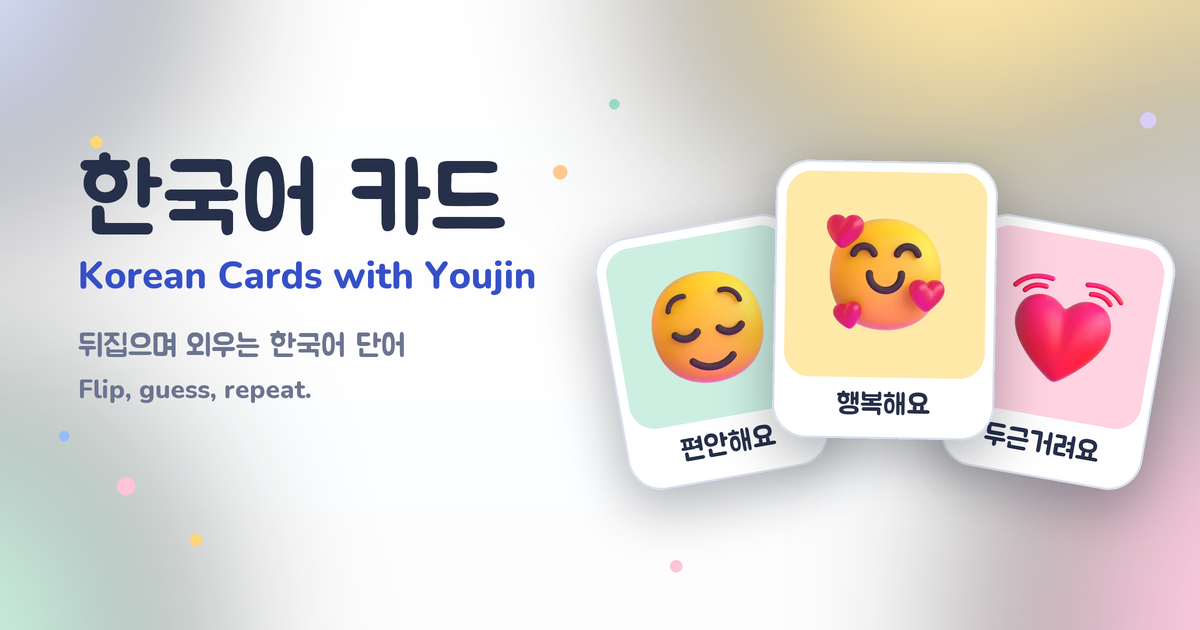
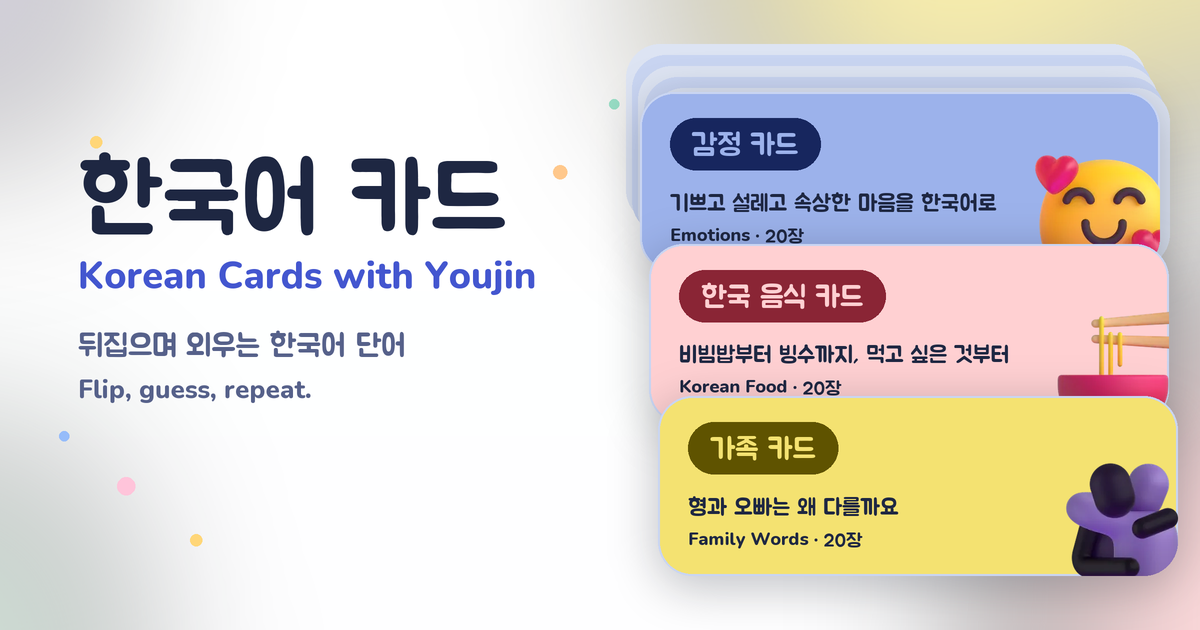
OG 이미지를 새 팔레트와 카드 더미로 다시 생성
세 장을 부채꼴로 펼치던 그림을 홈 화면과 같은 카드 더미로 바꿨다.
공유 카드에서 본 그림이 앱을 열었을 때 그대로 나오는 편이 낫다.

- 색은 전부 v2 토큰. 글로우도 악센트 8쌍에서 가져왔고, 왼쪽 두 개는
  겹치면서 회색으로 뜨길래 바깥으로 더 밀고 알파를 낮췄다.
- 덱의 라벨·한 줄 소개·색을 DECKS 상수에 적어 두었다. decks/*.js 와
  같은 내용이니 덱을 고치면 여기도 같이 고친다.
- Nunito 에는 한글 글자가 없어서 "20장" 이 두부로 찍혔다. 영문과
  한글을 글꼴을 바꿔 가며 이어 그리는 runs() 를 뒀다. 앱에서는
  --font-app 이 글자별로 알아서 분기하는데 Pillow 는 안 해 준다.

diff --git a/index.html b/index.html
@@ -22,7 +22,7 @@
 <meta property="og:image:type" content="image/png">
 <meta property="og:image:width" content="1200">
 <meta property="og:image:height" content="630">
-<meta property="og:image:alt" content="한국어 감정 카드 세 장 — 편안해요, 행복해요, 두근거려요">
+<meta property="og:image:alt" content="포개어 쌓은 덱 카드 세 장 — 감정 카드, 한국 음식 카드, 가족 카드">
 <meta name="twitter:card" content="summary_large_image">
 <link rel="stylesheet" href="https://cdn.jsdelivr.net/gh/orioncactus/pretendard@v1.3.9/dist/web/variable/pretendardvariable-dynamic-subset.min.css">
 <link rel="preconnect" href="https://fonts.googleapis.com">

diff --git a/tools/build_og.py b/tools/build_og.py
@@ -4,9 +4,10 @@ Usage:
     python3 -m venv .venv && .venv/bin/pip install Pillow
     .venv/bin/python tools/build_og.py
 
-A fanned deck of three mini flip-cards (real card art from img/emotions/)
-on the site palette, next to the title. Fonts (Jua, Nunito) are downloaded
-once into tools/.fontcache/ — that folder is gitignored, the PNG is committed.
+A stack of labelled deck cards — the same thing the home screen shows —
+next to the title. Deck colours, blurbs and art come from decks/*.js, so
+this file and the app stay in step. Fonts (Jua, Nunito) are downloaded once
+into tools/.fontcache/ — that folder is gitignored, the PNG is committed.
 """
 import os, urllib.request
 from PIL import Image, ImageDraw, ImageFilter, ImageFont, ImageOps
@@ -23,26 +24,31 @@ FONTS = {
     "Nunito.ttf": "https://github.com/google/fonts/raw/main/ofl/nunito/Nunito%5Bwght%5D.ttf",
 }
 
-# css/app.css tokens (light theme)
-BG = (238, 241, 248)
-INK = (38, 48, 74)
-MUTED = (107, 117, 144)
-PRIMARY = (53, 80, 200)
-SURFACE = (255, 255, 255)
-LINE = (216, 222, 235)
-GROUP = {
-    "yellow": (255, 233, 168),
-    "pink": (255, 211, 226),
-    "mint": (205, 239, 226),
-    "lavender": (226, 218, 250),
+# css/app.css tokens (light theme) — 디자인 시스템 v2
+BG = (245, 248, 255)
+INK = (30, 39, 66)
+MUTED = (86, 97, 138)
+PRIMARY = (67, 86, 207)
+LINE = (201, 213, 242)
+GRAY_BG = (221, 228, 243)
+ACCENT = {                       # -bg, -ink
+    "blue": ((156, 178, 235), (23, 38, 94)),
+    "pink": ((255, 208, 210), (138, 37, 53)),
+    "yellow": ((244, 226, 113), (95, 83, 0)),
+    "mint": ((189, 234, 206), (20, 84, 58)),
+    "lavender": ((221, 212, 251), (65, 43, 140)),
 }
 
-# fanned deck: (card art, label, group color, center x, center y, rotation)
-CARDS = [
-    ("emotions/pyeonanhaeyo", "편안해요", "mint", 712, 352, 10, 0.92),
-    ("emotions/dugeungeoryeoyo", "두근거려요", "pink", 1058, 352, -10, 0.92),
-    ("emotions/haengbokhaeyo", "행복해요", "yellow", 885, 300, -1, 1.0),
+# 홈 더미와 같은 순서·같은 내용. (덱 폴더, 겉면 그림, 라벨, 한 줄 소개, 색)
+DECKS = [
+    ("emotions", "haengbokhaeyo", "감정 카드", "Emotions", "기쁘고 설레고 속상한 마음을 한국어로", "blue"),
+    ("food", "bowl", "한국 음식 카드", "Korean Food", "비빔밥부터 빙수까지, 먹고 싶은 것부터", "pink"),
+    ("family", "gajok", "가족 카드", "Family Words", "형과 오빠는 왜 다를까요", "yellow"),
 ]
+
+CARD_W, CARD_H, RADIUS = 520, 180, 34
+STACK_X, STACK_Y, STEP, SKEW = 640, 92, 152, 9   # 겹침 = CARD_H - STEP = 28
+PAD, ART = 30, 148
 
 
 def font(name, size):
@@ -68,16 +74,15 @@ def backdrop(size):
     grad = Image.new("L", (1, h))
     for y in range(h):
         grad.putpixel((0, y), int(255 - 26 * (y / h)))  # subtle top->bottom cool-down
-    img.paste(Image.new("RGBA", size, (232, 237, 249, 255)),
-              (0, 0), ImageOps.invert(grad.resize(size)))
+    img.paste(Image.new("RGBA", size, BG + (255,)), (0, 0), ImageOps.invert(grad.resize(size)))
 
     # anchored just outside the corners, so only the edges tint and the
     # middle stays near-white (overlapping pastels turn gray fast)
     glows = [  # (cx%, cy%, r, rgb, alpha)
-        (.80, -.16, 300, (255, 226, 146), 210),
-        (1.10, .92, 300, (255, 192, 216), 210),
-        (-.10, 1.02, 290, (182, 236, 214), 185),
-        (-.09, -.10, 280, (203, 216, 255), 195),
+        (.80, -.16, 300, ACCENT["yellow"][0], 150),
+        (1.10, .92, 300, ACCENT["pink"][0], 200),
+        (-.16, 1.06, 290, ACCENT["mint"][0], 150),
+        (-.15, -.14, 280, ACCENT["lavender"][0], 160),
     ]
     for fx, fy, r, rgb, a in glows:
         r *= S
@@ -93,38 +98,76 @@ def sparkles(img):
     d = ImageDraw.Draw(img, "RGBA")
     dots = [(126, 486, 9, (255, 196, 218)), (196, 540, 6, (255, 214, 120)),
             (64, 436, 5, (150, 188, 250)), (560, 172, 7, (255, 200, 140)),
-            (614, 104, 5, (150, 220, 196)), (1148, 120, 8, (216, 206, 250)),
-            (676, 566, 6, (255, 196, 218)), (96, 142, 6, (255, 214, 120))]
+            (614, 104, 5, (150, 220, 196)), (96, 142, 6, (255, 214, 120))]
     for x, y, r, rgb in dots:
         x, y, r = x * S, y * S, r * S
         d.ellipse((x - r, y - r, x + r, y + r), fill=rgb + (205,))
 
 
-def mini_card(art, label, color, w, h):
-    """One flip-card: white surface, pastel art panel, Korean label."""
-    card = Image.new("RGBA", (w, h), (0, 0, 0, 0))
+def rounded(size, radius, fill, outline=None, width=0):
+    im = Image.new("RGBA", size, (0, 0, 0, 0))
+    ImageDraw.Draw(im).rounded_rectangle((0, 0, size[0] - 1, size[1] - 1), radius,
+                                         fill=fill, outline=outline, width=width)
+    return im
+
+
+def runs(d, x, y, parts):
+    """Nunito 에는 한글 글자가 없다. 영문과 한글을 글꼴을 바꿔 가며 이어 그린다."""
+    for text, f, fill in parts:
+        d.text((x, y), text, font=f, fill=fill, anchor="lt")
+        x += d.textlength(text, font=f)
+
+
+def wrap(d, text, f, maxw):
+    out, cur = [], ""
+    for word in text.split(" "):
+        probe = (cur + " " + word).strip()
+        if d.textlength(probe, font=f) <= maxw:
+            cur = probe
+        else:
+            out.append(cur); cur = word
+    if cur:
+        out.append(cur)
+    return out
+
+
+def deck_card(deck, art_id, label, en, blurb, color):
+    """홈 화면의 폴더 한 장 — 라벨 알약 + 한 줄 소개 + 모서리에 잘리는 겉면 그림."""
+    bg, ink = ACCENT[color]
+    w, h = CARD_W * S, CARD_H * S
+    card = rounded((w, h), RADIUS * S, bg, LINE, 2 * S)
+    mask = rounded((w, h), RADIUS * S, (255, 255, 255, 255)).getchannel("A")
+
+    # 겉면 그림 — 오른쪽 아래로 밀어 내고 카드 모서리가 잘라 준다
+    im = Image.open(os.path.join(ROOT, "img", deck, art_id + ".webp")).convert("RGBA")
+    im = im.resize((ART * S, ART * S), Image.LANCZOS)
+    layer = Image.new("RGBA", (w, h), (0, 0, 0, 0))
+    layer.alpha_composite(im, ((CARD_W - ART + 18) * S, (CARD_H - ART + 26) * S))
+    card.alpha_composite(Image.composite(layer, Image.new("RGBA", (w, h), (0, 0, 0, 0)), mask))
+
     d = ImageDraw.Draw(card)
-    pad, radius = 11 * S, 34 * S
-    d.rounded_rectangle((0, 0, w - 1, h - 1), radius, fill=SURFACE, outline=LINE, width=2 * S)
+    # 라벨 알약 — -ink 바탕에 -bg 글자
+    fj = font("Jua-Regular.ttf", 30 * S)
+    tw = d.textlength(label, font=fj)
+    ph = 52 * S
+    d.rounded_rectangle((PAD * S, 26 * S, PAD * S + tw + 44 * S, 26 * S + ph), 999, fill=ink)
+    d.text((PAD * S + 22 * S, 26 * S + ph / 2 + 2 * S), label, font=fj, fill=bg, anchor="lm")
 
-    panel = (pad, pad, w - pad, h - 62 * S)
-    d.rounded_rectangle(panel, radius - 9 * S, fill=GROUP[color])
-
-    im = Image.open(os.path.join(ROOT, "img", art + ".webp")).convert("RGBA")
-    box = int((panel[3] - panel[1]) * 0.76)
-    im.thumbnail((box, box), Image.LANCZOS)
-    card.alpha_composite(im, ((w - im.width) // 2,
-                              (panel[1] + panel[3] - im.height) // 2))
-
-    f = font("Jua-Regular.ttf", 29 * S)
-    d.text(((w) // 2, h - 34 * S), label, font=f, fill=INK, anchor="mm")
+    # 한 줄 소개와 장수. 폴더 위에서는 muted 를 쓰지 않는다 — ink 로 두고 크기로만 눌러 준다
+    fb = font("Jua-Regular.ttf", 23 * S)
+    y = 100 * S
+    for line in wrap(d, blurb, fb, (CARD_W - PAD - ART + 10) * S)[:2]:
+        d.text((PAD * S, y), line, font=fb, fill=INK, anchor="lt")
+        y += 31 * S
+    fn, fk = font("Nunito.ttf", 18 * S), font("Jua-Regular.ttf", 19 * S)
+    runs(d, PAD * S, y + 5 * S, [(en + " · ", fn, INK), ("20장", fk, INK)])
     return card
 
 
-def drop(canvas, shape, cx, cy, blur, dy, alpha):
+def drop(canvas, shape, x, y, blur, dy, alpha):
     sh = Image.new("RGBA", canvas.size, (0, 0, 0, 0))
     solid = Image.new("RGBA", shape.size, (31, 40, 63, alpha))
-    sh.paste(solid, (cx - shape.width // 2, cy - shape.height // 2 + dy), shape)
+    sh.paste(solid, (x, y + dy), shape)
     canvas.alpha_composite(sh.filter(ImageFilter.GaussianBlur(blur)))
 
 
@@ -146,15 +189,21 @@ def main():
         f = font(fam, size * S)
         d.text((x, y * S), text, font=f, fill=fill, anchor="ls")
         right = x / S + d.textlength(text, font=f) / S
-        if right > 600:
-            print(f"  warn: '{text}' reaches x={right:.0f} (deck starts ~600)")
+        if right > STACK_X - 20:
+            print(f"  warn: '{text}' reaches x={right:.0f} (stack starts {STACK_X})")
 
-    # ---- fanned deck ------------------------------------------------
-    for art, label, color, cx, cy, rot, scale in CARDS:
-        cw, ch = int(222 * scale) * S, int(278 * scale) * S
-        card = mini_card(art, label, color, cw, ch).rotate(rot, Image.BICUBIC, expand=True)
-        drop(img, card.getchannel("A"), cx * S, cy * S, 26 * S, 16 * S, 90)
-        img.alpha_composite(card, (cx * S - card.width // 2, cy * S - card.height // 2))
+    # ---- 가라앉은 뒤 카드들 -------------------------------------------
+    for i in range(5):
+        quiet = rounded((CARD_W * S, CARD_H * S), RADIUS * S,
+                        GRAY_BG if i % 2 == 0 else LINE)
+        img.alpha_composite(quiet, ((STACK_X - 14 + 6 * i) * S, (STACK_Y - 48 + 11 * i) * S))
+
+    # ---- 덱 더미 ------------------------------------------------------
+    for i, (deck, art_id, label, en, blurb, color) in enumerate(DECKS):
+        card = deck_card(deck, art_id, label, en, blurb, color)
+        cx, cy = (STACK_X + SKEW * i) * S, (STACK_Y + STEP * i) * S
+        drop(img, card.getchannel("A"), cx, cy, 22 * S, 10 * S, 70)
+        img.alpha_composite(card, (cx, cy))
 
     img.convert("RGB").resize((W, H), Image.LANCZOS).save(OUT, optimize=True)
     print("wrote", os.path.relpath(OUT, ROOT), os.path.getsize(OUT) // 1024, "KB")
